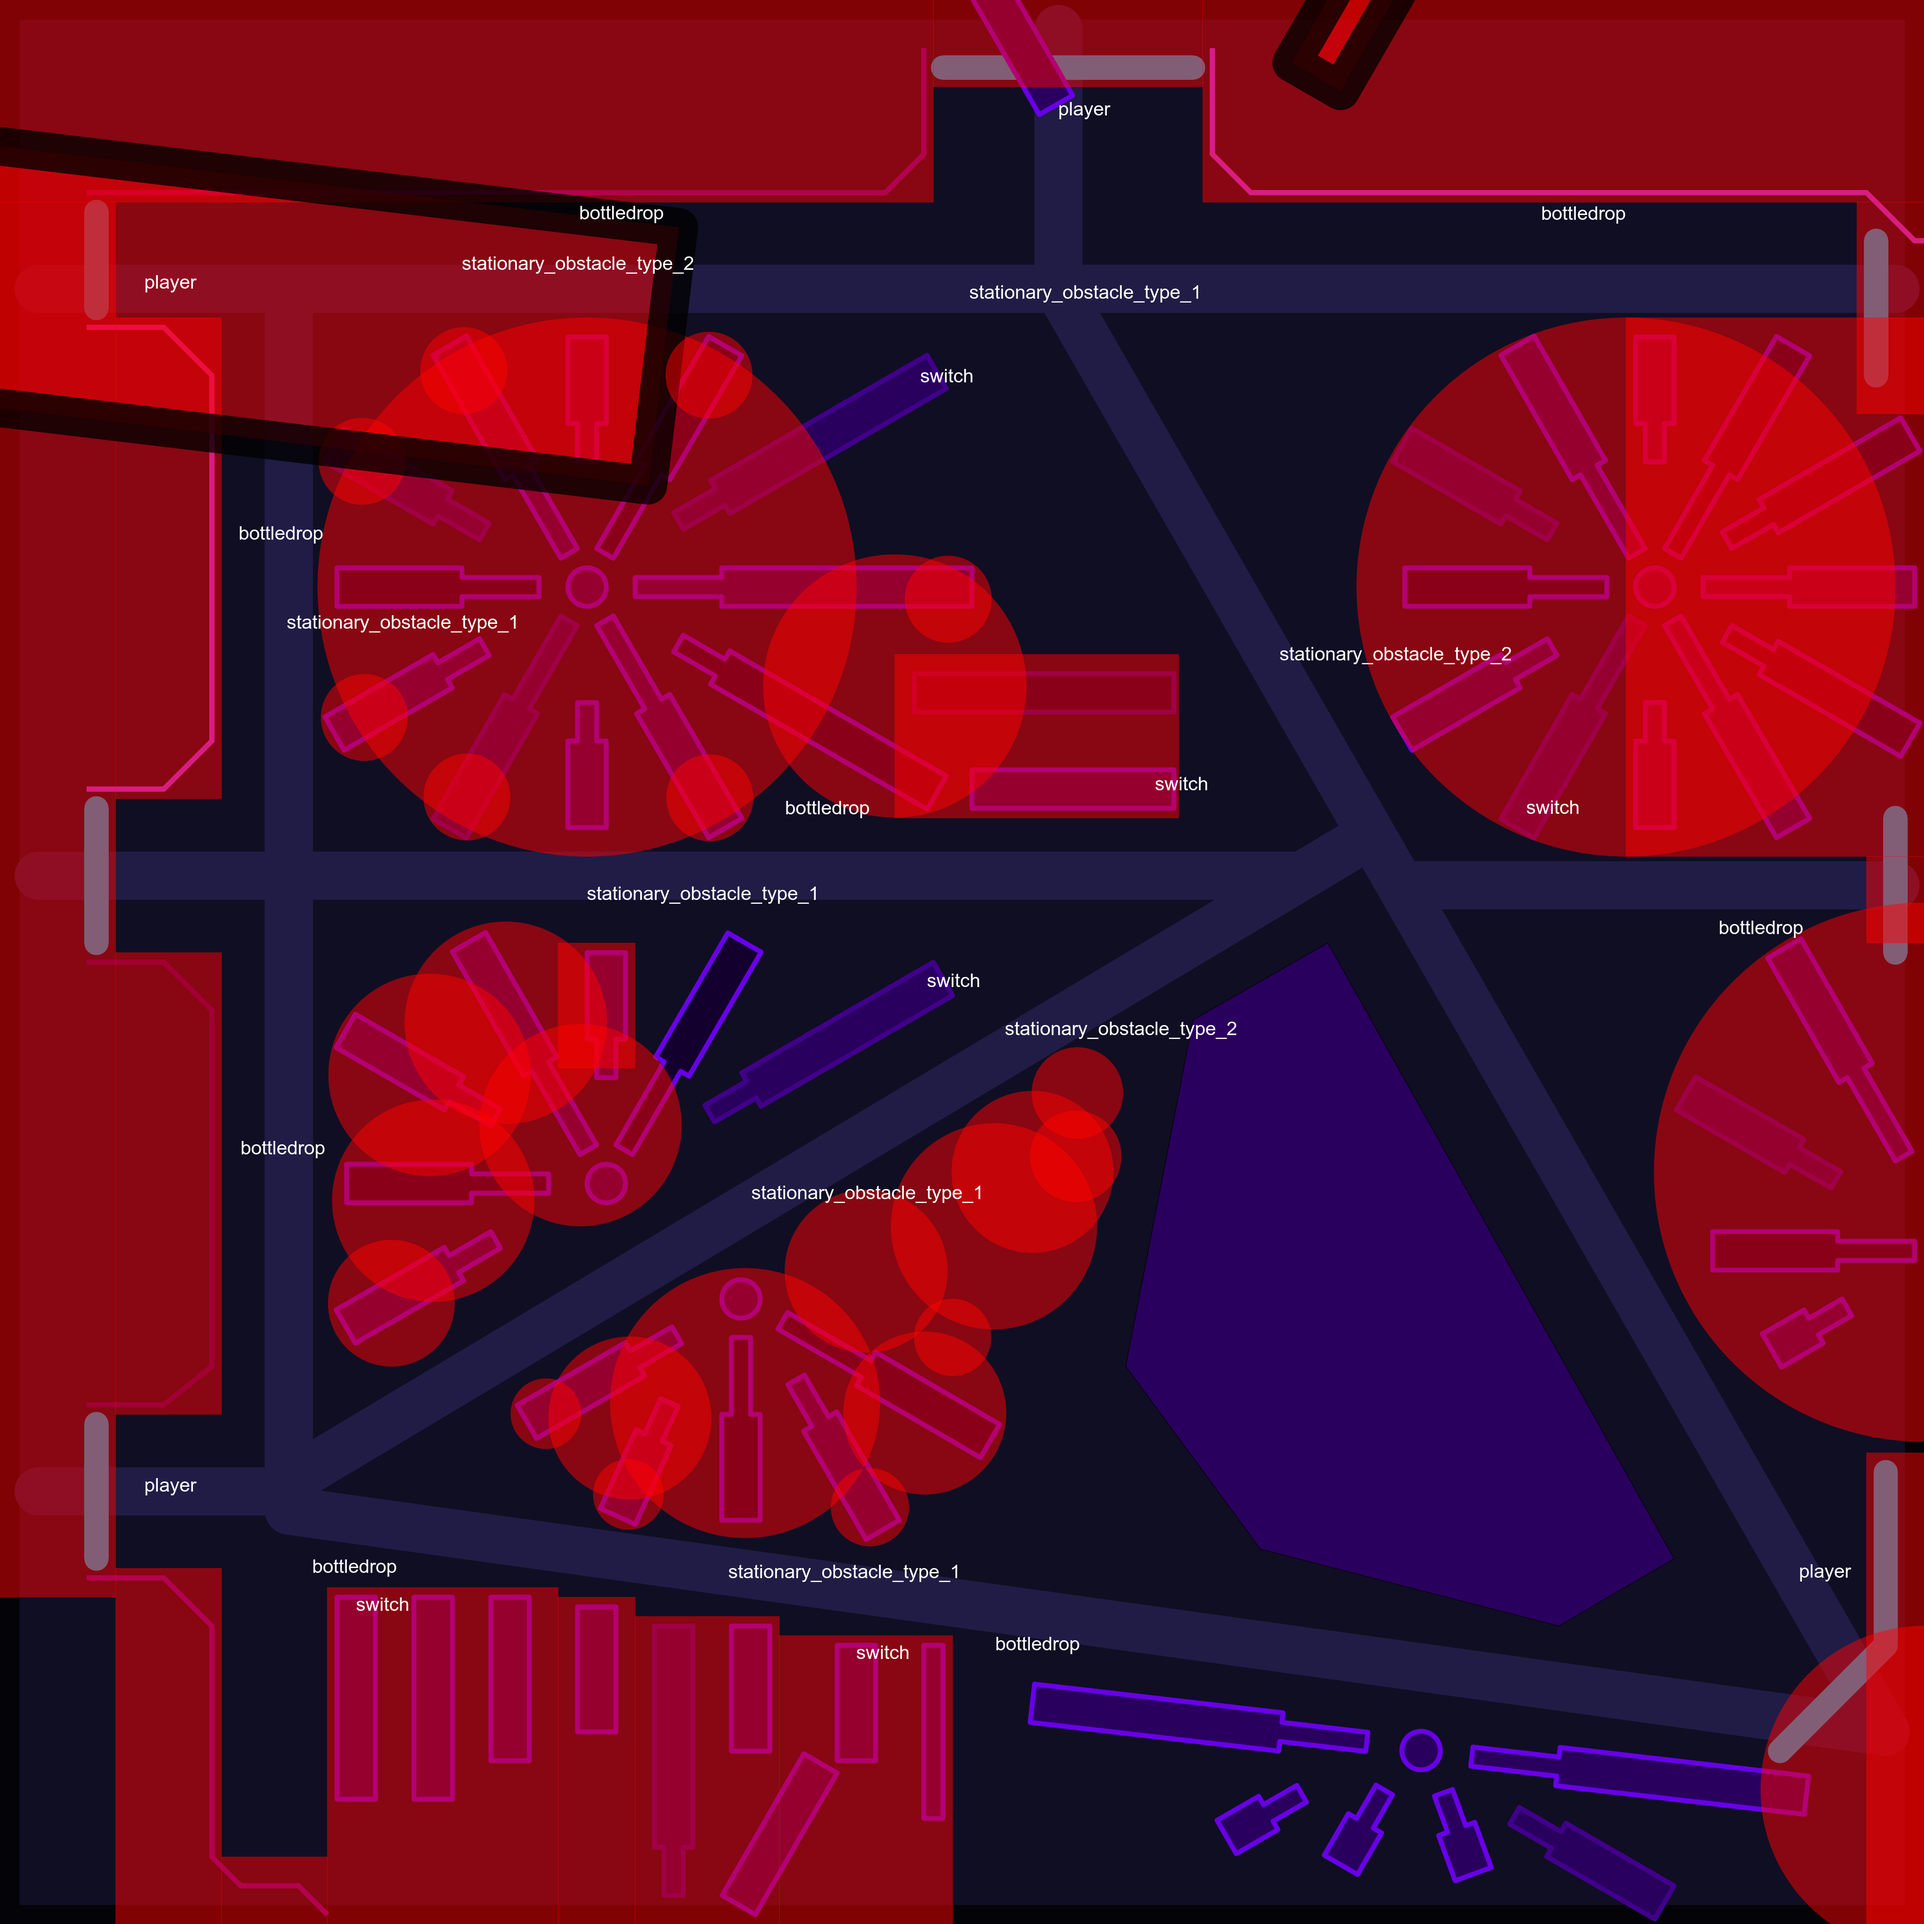
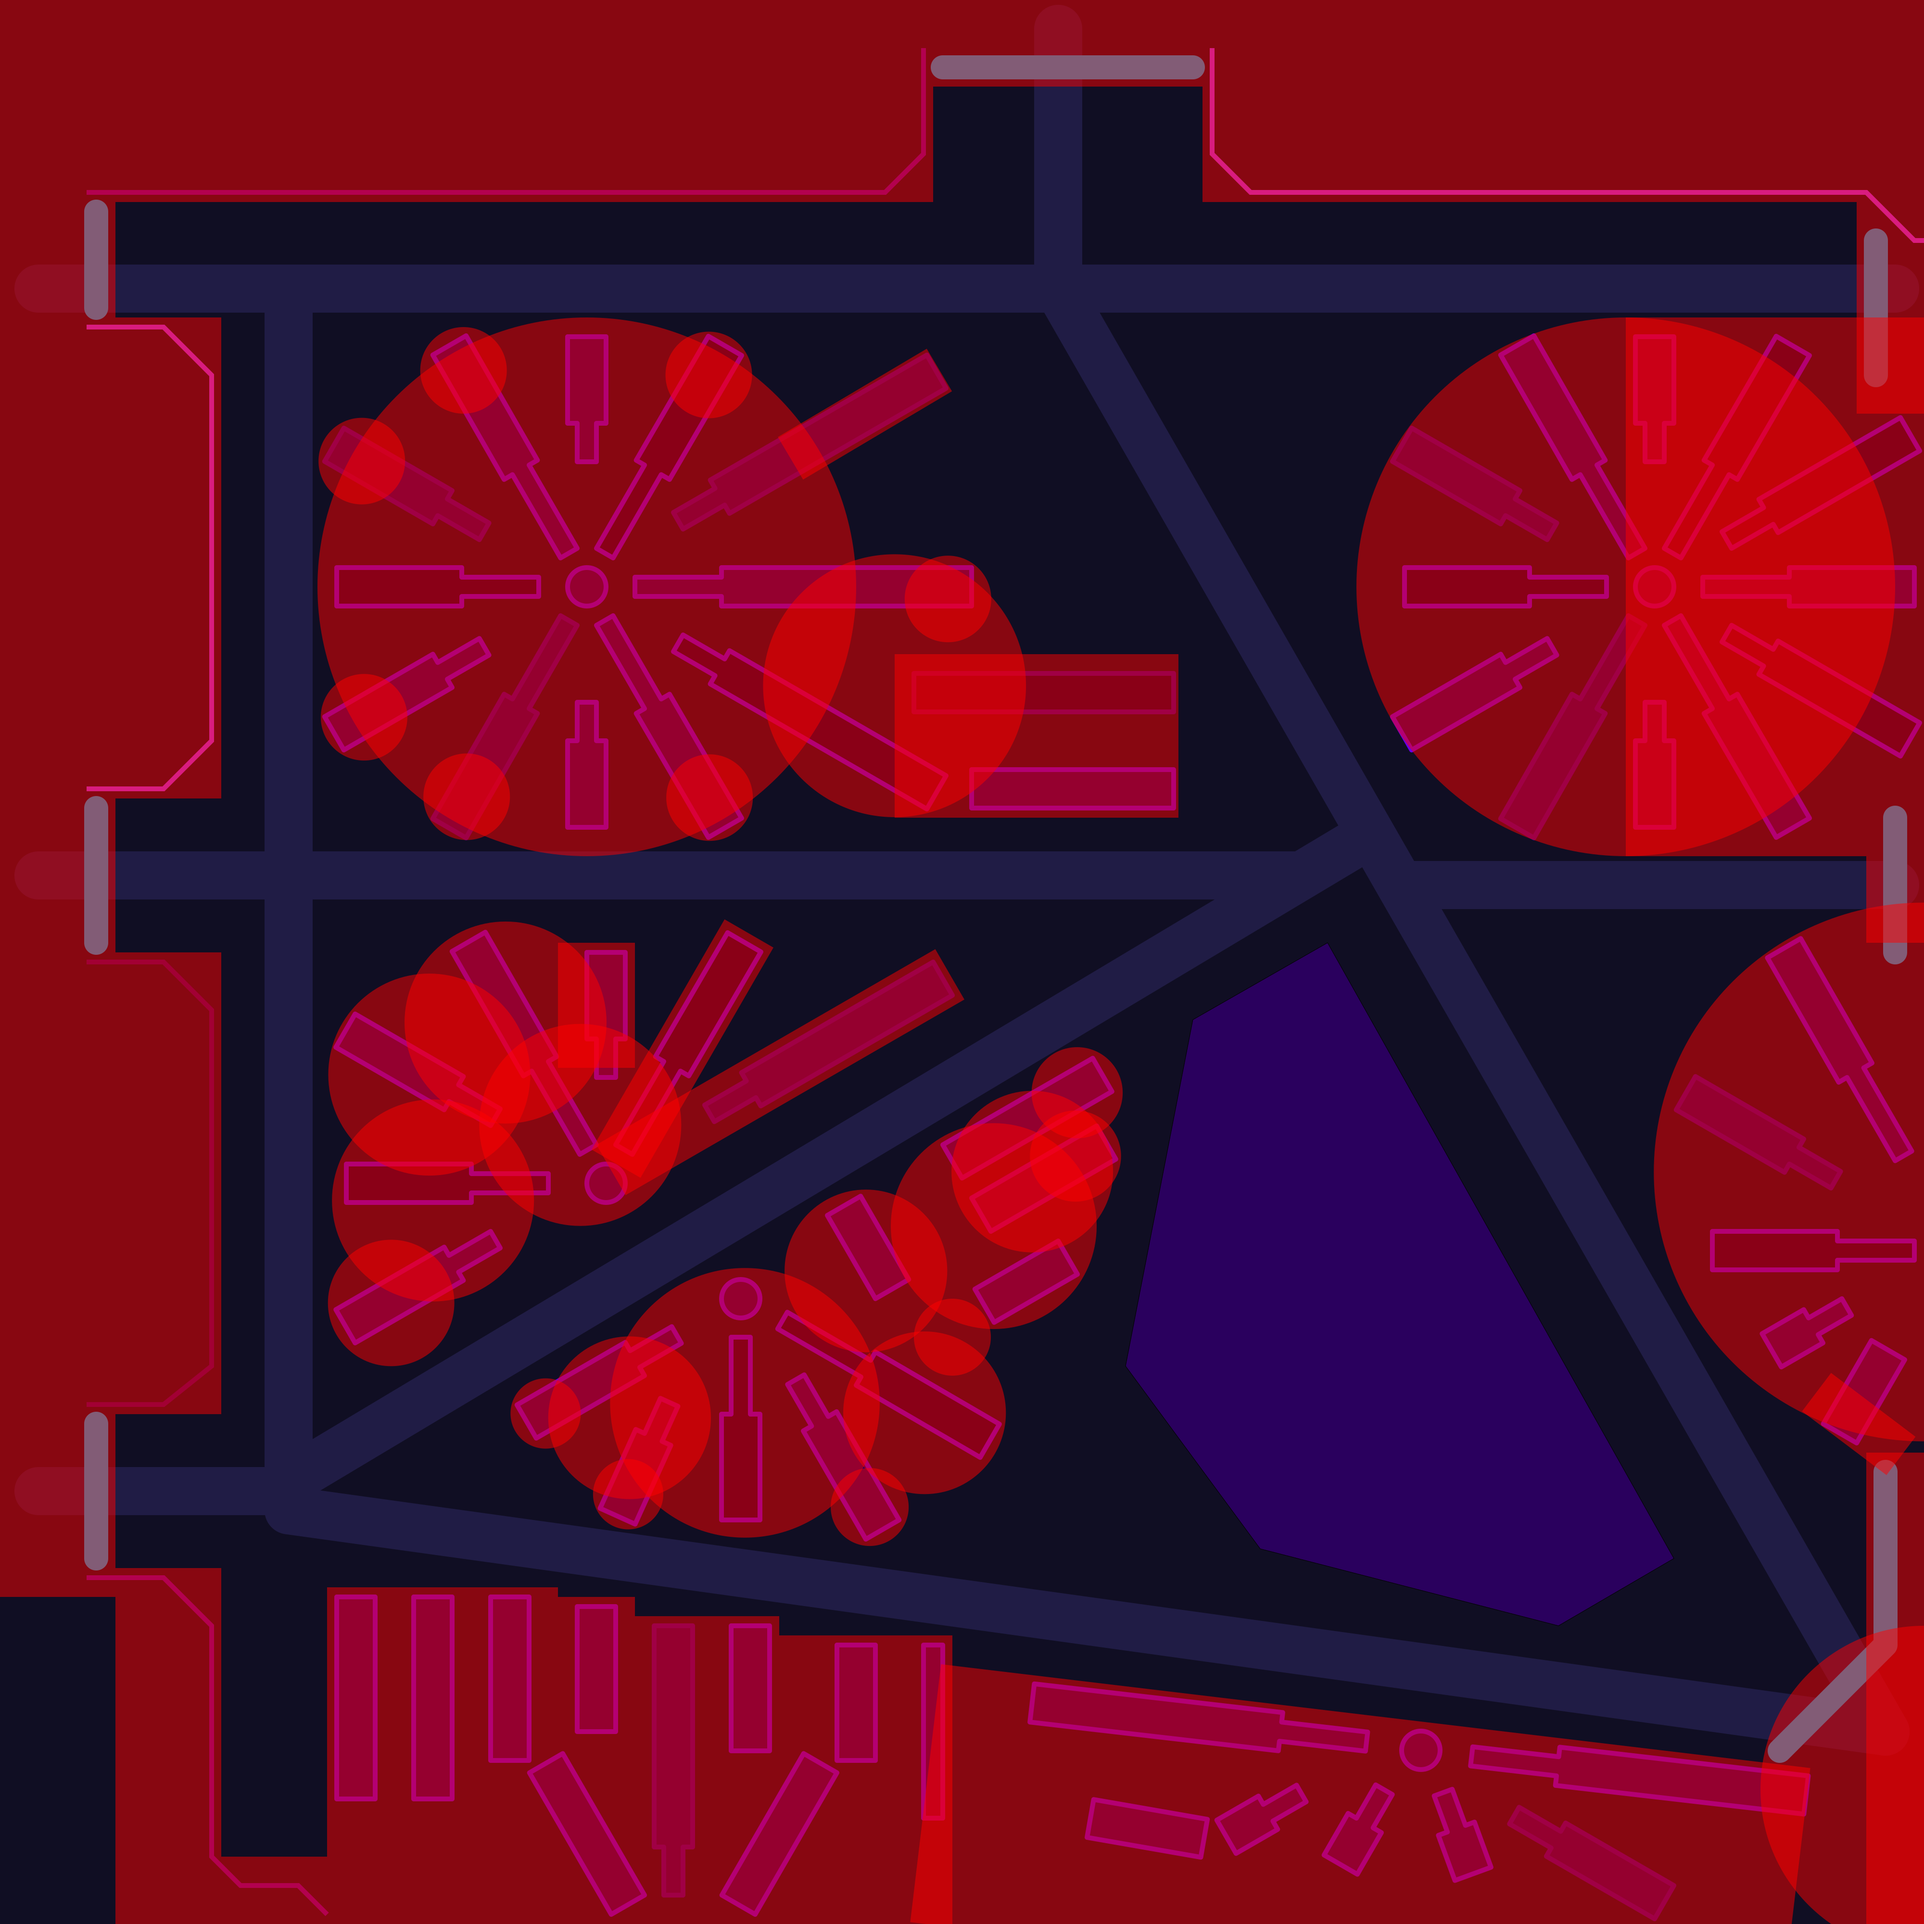
Support rotated rectangles
The origin of the rectangles during the rotation is the global
(0,0) coordinate.  To perform the rotation in bevy, each rectangle
collider needs a parent at (0,0) which is rotated and a child
where the actual collider is attached to.

diff --git a/level-parser/src/lib.rs b/level-parser/src/lib.rs
@@ -1,5 +1,5 @@
 use std::{io, ops::Deref, collections::HashMap};
-use svg::node::element::tag;
+use svg::node::{element::tag, Value};
 use thiserror::Error;
 
 #[derive(Error, Debug)]
@@ -14,7 +14,7 @@ pub enum LevelParserError {
 
 #[derive(Debug)]
 pub enum Barrier {
-    Rect(f32, f32, f32, f32), // x, y, width, height
+    Rect(f32, f32, f32, f32, f32), // x, y, width, height, rotation
     Circle(f32, f32, f32),    // x, y, radius
 }
 
@@ -23,6 +23,20 @@ pub struct Level {
     pub barrier: Vec<Barrier>,
     pub spawns: HashMap<String, Vec<(f32, f32)>>,
     pub size: (f32, f32),
+}
+
+pub fn parse_transform(transform: &Value) -> f32 {
+    let transform = transform.to_string();
+    let regex = regex::Regex::new(r".*rotate\((?P<rotation>.*)\).*").unwrap();
+    if let Some(caps) = regex.captures(&transform) {
+        if let Ok(rotation) = &caps["rotation"].parse() {
+            *rotation
+        } else {
+            0.0
+        }
+    } else {
+        0.0
+    }
 }
 
 pub fn parse_level_from_svg(file_content: &str) -> std::result::Result<Level, LevelParserError> {
@@ -110,7 +124,11 @@ pub fn parse_level_from_svg(file_content: &str) -> std::result::Result<Level, Le
                         LevelParserError::WrongArguments("No height coordinate in rect".into())
                     })?
                     .parse()?;
-                barrier.push(Barrier::Rect(x, y, width, height));
+                let rotation = attributes
+                    .get("transform")
+                    .map(parse_transform)
+                    .unwrap_or(0.0);
+                barrier.push(Barrier::Rect(x, y, width, height, rotation));
             }
             svg::parser::Event::Tag("circle", tag::Type::Empty, attributes)
                 if parsing_colliders =>

diff --git a/engelsimulator2/src/entity/barrier_entity.rs b/engelsimulator2/src/entity/barrier_entity.rs
@@ -1,7 +1,11 @@
+use std::f32::consts::PI;
+
 use bevy::prelude::*;
 use heron::prelude::*;
+use bevy_prototype_lyon::{prelude::*, shapes::RectangleOrigin};
 
-pub fn rect_barrier(commands: &mut Commands, (x, y, width, height): (f32, f32, f32, f32)) {
+pub fn rect_barrier(commands: &mut Commands, (x, y, width, height, rotation): (f32, f32, f32, f32, f32)) {
+
     //let shape = shapes::Rectangle {
     //    width,
     //    height,
@@ -16,15 +20,25 @@ pub fn rect_barrier(commands: &mut Commands, (x, y, width, height): (f32, f32, f
     //    },
     //    Transform::from_xyz(x + width / 2.0, y + height / 2.0, 10.0),
     //));
+    let transform = Transform::from_xyz(x + width / 2.0, y + height / 2.0, 10.0);
+
     let mut entity = commands.spawn();
     entity
-        .insert(Transform::from_xyz(x + width / 2.0, y + height / 2.0, 10.0))
+        .insert(transform)
         .insert(GlobalTransform::default())
         .insert(RigidBody::Static)
         .insert(CollisionShape::Cuboid {
             half_extends: Vec3::new(width / 2.0, height / 2.0, 1000.0),
             border_radius: None,
         });
+    let entity_id = entity.id();
+
+    let mut parent = commands.spawn();
+    let mut parent_transform = Transform::from_xyz(0.0, 0.0, 0.0);
+    parent_transform.rotate(bevy::math::Quat::from_rotation_z(-rotation * PI / 180.0));
+    parent.insert(parent_transform);
+    parent.insert(GlobalTransform::default());
+    parent.push_children(&[entity_id]);
 }
 pub fn circle_barrier(commands: &mut Commands, (x, y, radius): (f32, f32, f32)) {
     // let shape = shapes::Circle {

diff --git a/engelsimulator2/src/system/startup/ingame_startup_system.rs b/engelsimulator2/src/system/startup/ingame_startup_system.rs
@@ -49,8 +49,8 @@ pub fn ingame_startup_system(
         match *barrier {
             level_parser::Barrier::Circle(x, y, radius) =>
                 entity::circle_barrier(&mut commands, (x * level_scale_factor, -y * level_scale_factor, radius * level_scale_factor)),
-            level_parser::Barrier::Rect(x, y, width, height) =>
-                entity::rect_barrier(&mut commands, (x * level_scale_factor, -y * level_scale_factor - height, width * level_scale_factor, height * level_scale_factor)),
+            level_parser::Barrier::Rect(x, y, width, height, rotation) =>
+                entity::rect_barrier(&mut commands, (x * level_scale_factor, -y * level_scale_factor - height, width * level_scale_factor, height * level_scale_factor, rotation)),
         }
     }
 
